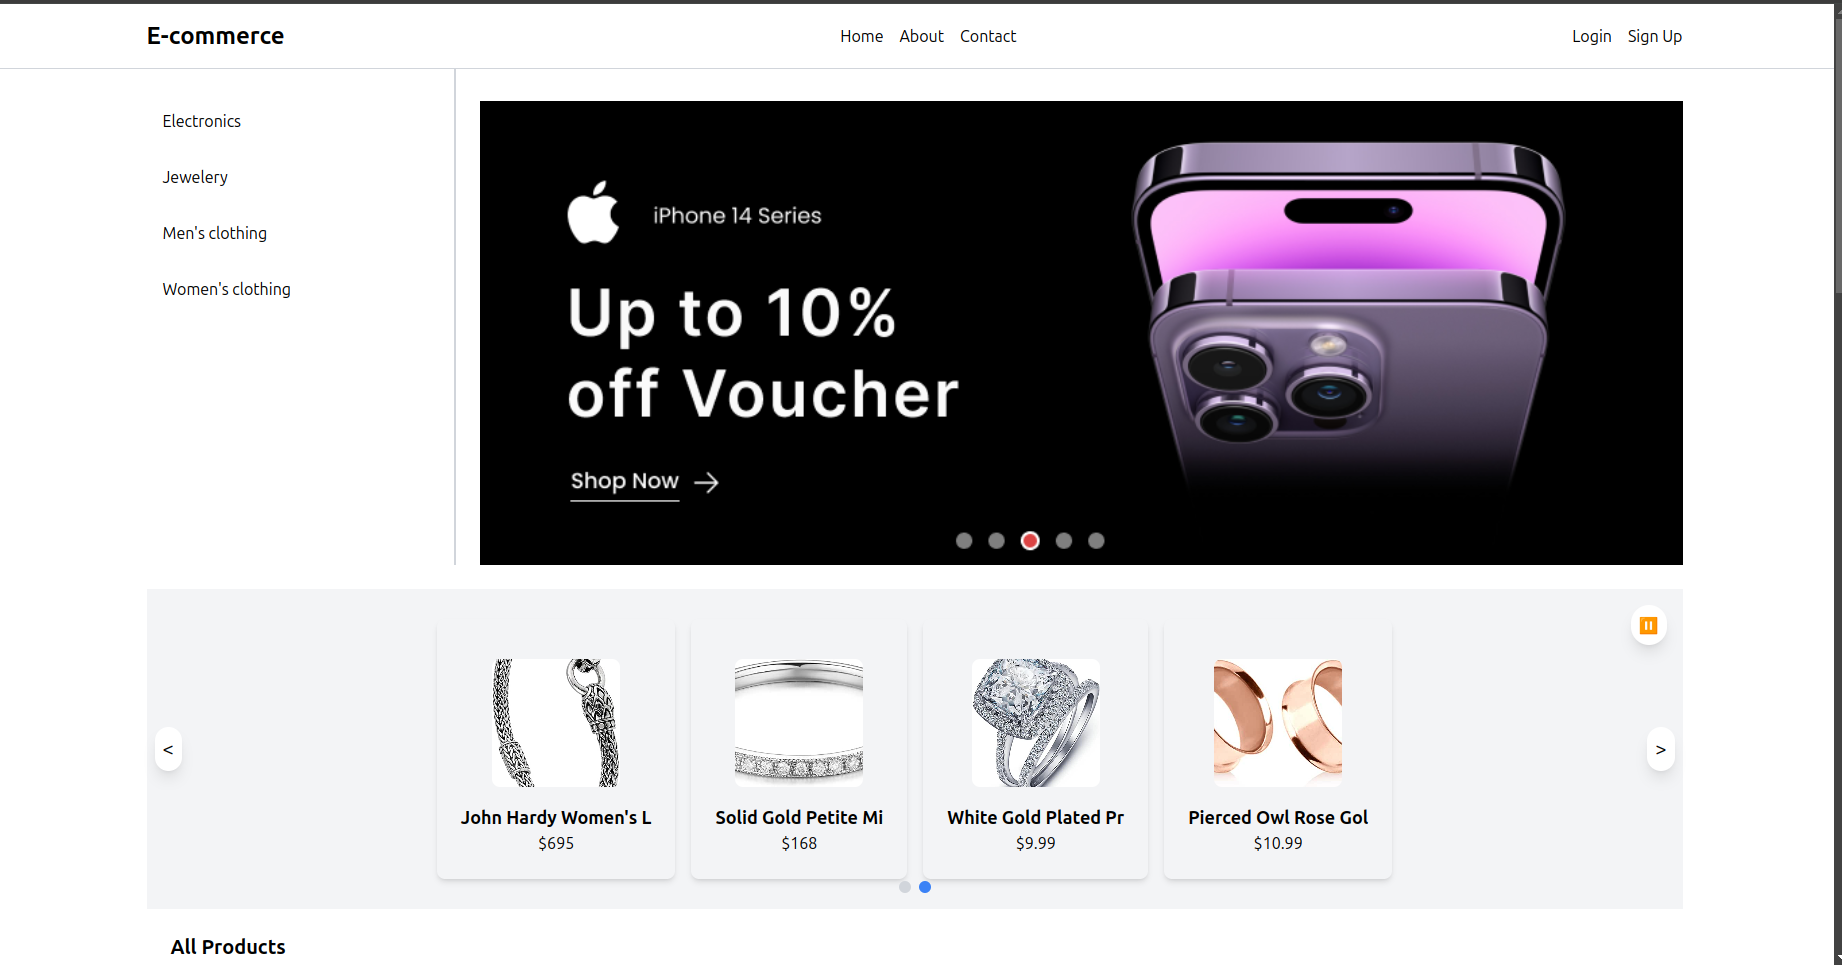
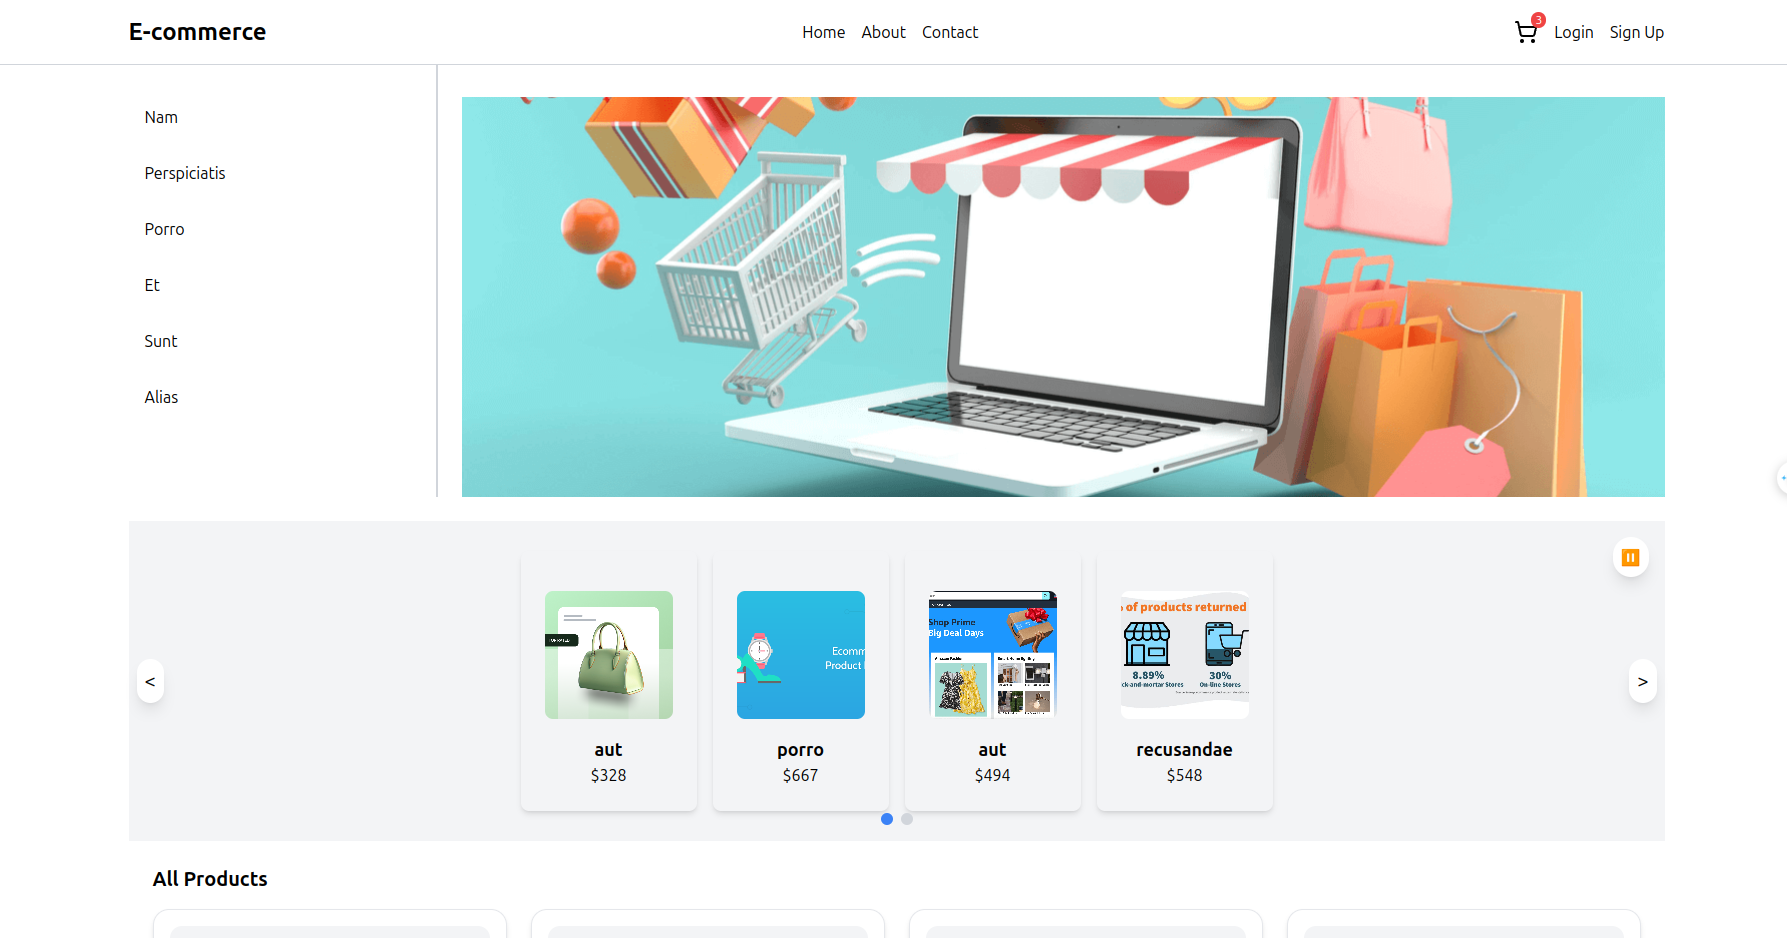
edit readme

diff --git a/src/components/Navbar.jsx b/src/components/Navbar.jsx
@@ -16,15 +16,19 @@ const Navbar = () => {
     <>
       <div className="container mx-auto fix">
         <div className="flex justify-between items-center py-4">
-          <h1 className="text-2xl font-bold">E-commerce</h1>
 
+          <Link to="/" > 
+           <h1 className="text-2xl font-bold">E-commerce</h1> 
+           </Link>
           <div className="flex space-x-4">
             <Link to="/" className="hover:underline">Home</Link>
             <Link to="/" className="hover:underline">About</Link>
             <Link to="/" className="hover:underline">Contact</Link>
           </div>
 
- 
+          <div className='flex  items-center justify-between  space-x-4'> 
+
+
           <CartIcon />
 
           {isAuthenticated ? (
@@ -38,6 +42,7 @@ const Navbar = () => {
               <Link to="/signup" className="hover:underline">Sign Up</Link>
             </div>
           )}
+           </div>
         </div>
       </div>
       <div className="border-b border-gray-300 w-full"></div>

diff --git a/README.md b/README.md
@@ -27,34 +27,49 @@ This project is a simple React-based e-commerce application that provides users 
 The project is structured as follows:
 
 ```bash
-── App.css
-├── App.js
-├── App.test.js
-├── components
-│   ├── Carousel.jsx
-│   ├── Navbar.jsx
-│   └── ProductCard.jsx
-├── features
-│   └── category
-│       └── CategoryFilter.jsx
-├── index.css
-├── index.js
-├── logo.svg
-├── pages
-│   ├── HomePage.jsx
-│   ├── Login.jsx
-│   ├── ProductDetails.jsx
-│   └── Signup.jsx
-├── reportWebVitals.js
-├── services
-│   └── api.js
-├── setupTests.js
-└── store
-    ├── slices
-    │   ├── authSlice.js
-    │   ├── categorySlice.js
-    │   └── productSlice.js
-    └── store.js
+
+├── package.json
+├── package-lock.json
+├── public
+│   ├── favicon.ico
+│   ├── images
+│   │   └── hero.png
+│   ├── index.html
+├── README.md
+├── src
+│   ├── App.css
+│   ├── App.js
+│   ├── App.test.js
+│   ├── components
+│   │   ├── Carousel.jsx
+│   │   ├── CartIcon.jsx
+│   │   ├── Navbar.jsx
+│   │   └── ProductCard.jsx
+│   ├── features
+│   │   └── category
+│   │       └── CategoryFilter.jsx
+│   ├── index.css
+│   ├── index.js
+│   ├── logo.svg
+│   ├── pages
+│   │   ├── CartPage.jsx
+│   │   ├── HomePage.jsx
+│   │   ├── Login.jsx
+│   │   ├── ProductDetails.jsx
+│   │   ├── ProductPage.jsx
+│   │   └── Signup.jsx
+│   ├── services
+│   │   └── api.js
+│   ├── setupTests.js
+│   └── store
+│       ├── slices
+│       │   ├── authSlice.js
+│       │   ├── bannerSlice.js
+│       │   ├── CartSlice.js
+│       │   ├── categorySlice.js
+│       │   └── productSlice.js
+│       └── store.js
+└── tailwind.config.js
 
 ```
 
@@ -120,14 +135,17 @@ The application supports the following routes:
 - **CSS/Tailwind CSS**: Used for styling the components.
 
 ---
-
 ## Future Improvements
 
-- Add a shopping cart feature.
-- Implement user authentication with a backend service.
-- Add unit tests for components and pages.
-- Enhance product filtering and sorting functionality.
-- Integrate a database or API for dynamic data.
+- [x] Add a shopping cart feature  
+- [x] Implement user authentication with a backend service  
+- [x] Integrate a database or API for dynamic data  
+- [ ] Add unit tests for components and pages  
+- [ ] Enhance product filtering and sorting functionality  
+- [ ] Add pagination  
+- [ ] Integrate payment (Paymob)  
+- [ ] Implement chat support  
+- [ ] Add profile settings  
 
 ---
 
